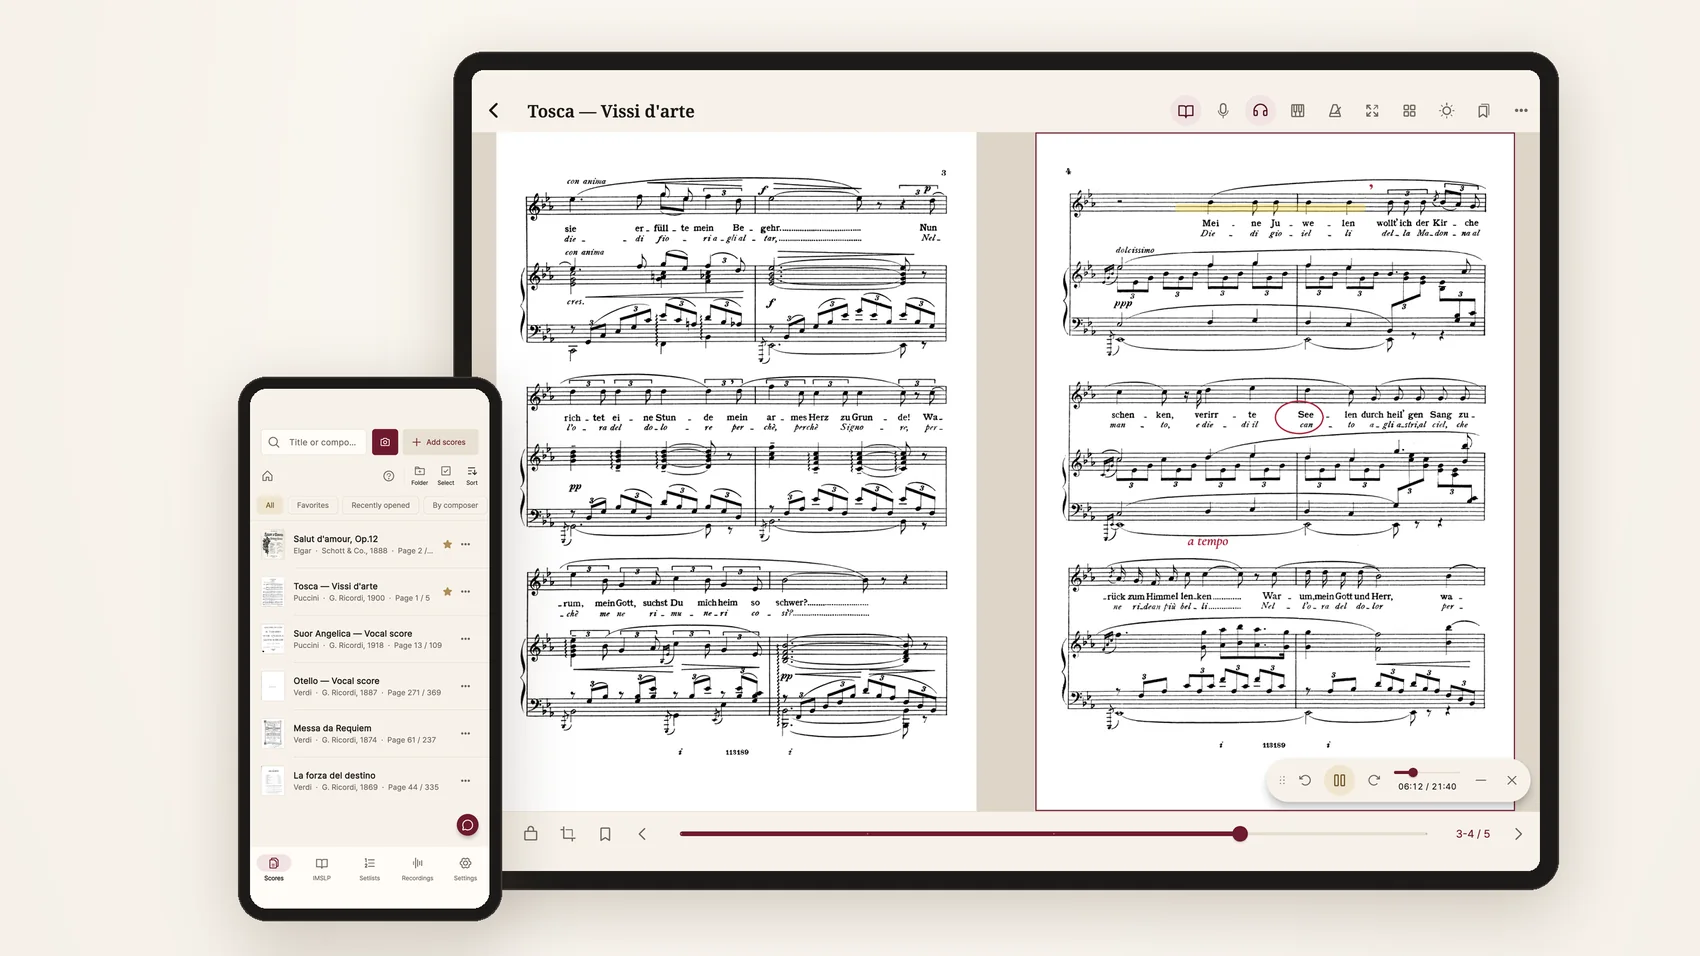
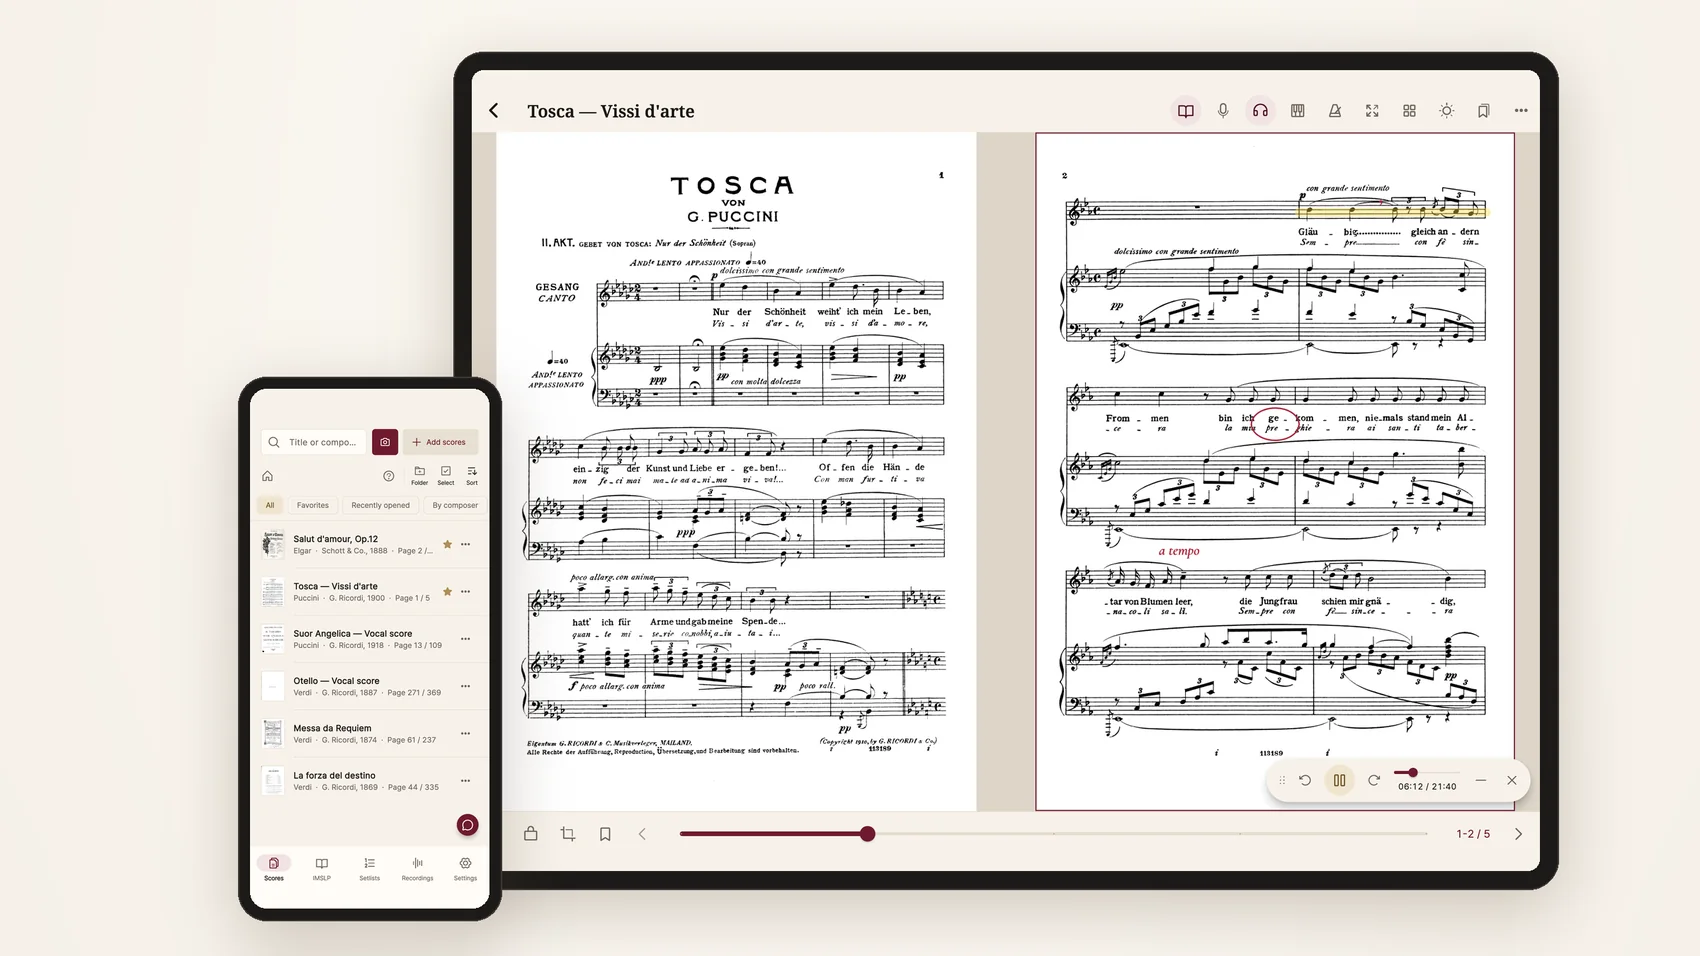
악보를 토스카 1-2쪽으로, 영상 자리 준비 (대표님)
악보: 아리아 첫 쪽으로 바꿨다. 왼쪽 위 「TOSCA / G. PUCCINI」 머리글이
보여 음악을 모르는 사람도 오페라 악보임을 안다. 표지가 아니라 첫 쪽이라
바로 아래부터 성악 선율과 피아노 반주가 함께 보인다.

영상: "녹음하면 악보가 따라 넘어갑니다" 자리에만 짧은 영상을 넣을 수 있게
해 두었다. leggii/shots/follow.mp4 가 있으면 영상으로, 없으면 지금처럼
그림으로 나온다. 소리 없이 저절로 반복하되 화면에 들어올 때만 받아
재생한다(첫 화면이 느려지지 않게). 멈춤 그림은 지금 쓰는 토스카 화면이라
재생이 막힌 곳에서도 똑같이 보인다. 언어를 바꾸면 멈춤 그림도 따라간다.

아직 영상 파일은 없다 — 렛지 세션의 프레임을 기다린다.

Changed region(s): [[0.2806, 0.182, 0.5612, 0.7887], [0.6235, 0.182, 0.8729, 0.7887], [0.4988, 0.8494, 0.7482, 0.8797]]

diff --git a/leggii/index.html b/leggii/index.html
@@ -124,11 +124,20 @@ document.querySelectorAll("[data-l]").forEach(function(e){e.classList.toggle("on
 document.querySelectorAll("[data-set]").forEach(function(b){b.classList.toggle("on",b.getAttribute("data-set")===x)});
 document.querySelectorAll("[data-shot]").forEach(function(e){e.src="/leggii/shots/"+x+"/"+e.getAttribute("data-shot")+".webp"});
 document.querySelectorAll("[data-hero]").forEach(function(e){e.src="/leggii/shots/"+x+"/hero.webp"});
+document.querySelectorAll("[data-poster]").forEach(function(e){e.poster="/leggii/shots/"+x+"/"+e.getAttribute("data-poster")+".webp"});
 if(META[x]){document.title=META[x][0];
 var m=document.querySelector('meta[name="description"]');if(m)m.setAttribute("content",META[x][1]);
 var ot=document.querySelector('meta[property="og:title"]');if(ot)ot.setAttribute("content",META[x][0]);
 var od=document.querySelector('meta[property="og:description"]');if(od)od.setAttribute("content",META[x][1]);}
 try{localStorage.setItem(k,x)}catch(e){}}
 document.querySelectorAll("[data-set]").forEach(function(b){b.addEventListener("click",function(){set(b.getAttribute("data-set"))})});
-set(l)})();</script>
+set(l);
+/* 영상은 화면에 들어왔을 때만 받아서 재생한다 — 첫 화면이 느려지지 않게 */
+var vs=document.querySelectorAll("video.shot");
+if(vs.length&&"IntersectionObserver" in window){
+var io=new IntersectionObserver(function(es){es.forEach(function(en){var v=en.target;
+if(en.isIntersecting){if(v.preload!=="auto"){v.preload="auto";v.load()}
+var pr=v.play();if(pr&&pr.catch)pr.catch(function(){})}else{v.pause()}})},{threshold:.25});
+vs.forEach(function(v){io.observe(v)})}
+})();</script>
 </body></html>

diff --git a/leggii_site.py b/leggii_site.py
@@ -14,6 +14,8 @@
 build.py 가 leggii_legal.py 를 통해 부른다.
 """
 
+import os
+
 SHOT_LANGS = ("ko", "en", "de")  # 스크린샷이 있는 언어
 LANGS = [("ko", "한국어"), ("en", "English"), ("de", "Deutsch")]
 
@@ -314,8 +316,20 @@ def _feat(l, i, num, kicker, head, body, bullets):
     flip = " flip" if i % 2 else ""
     return (f'<div data-l="{l}" class="feat{flip}{_on(l)}">'
             f'<div class="txt"><p class="kicker">{kicker}</p><h2>{head}</h2><p>{body}</p><ul>{lis}</ul></div>'
-            f'<div><img class="shot" data-shot="d{num}" src="/leggii/shots/en/d{num}.webp" '
-            f'alt="{head}" width="1200" height="936" loading="lazy" decoding="async"></div></div>')
+            f'<div>{_media(num, head)}</div></div>')
+
+
+FOLLOW = "leggii/shots/follow.mp4"   # 악보가 따라 넘어가는 짧은 영상(장면 3)
+
+
+def _media(num, head):
+    """장면 3은 영상이 있으면 영상, 없으면 그림."""
+    if num == 3 and os.path.exists(os.path.join(os.path.dirname(os.path.abspath(__file__)), FOLLOW)):
+        return (f'<video class="shot" data-poster="d{num}" poster="/leggii/shots/en/d{num}.webp" '
+                f'width="1200" height="936" muted loop playsinline preload="none" '
+                f'aria-label="{head}"><source src="/{FOLLOW}" type="video/mp4"></video>')
+    return (f'<img class="shot" data-shot="d{num}" src="/leggii/shots/en/d{num}.webp" '
+            f'alt="{head}" width="1200" height="936" loading="lazy" decoding="async">')
 
 
 def _plans(l, t):
@@ -339,13 +353,22 @@ document.querySelectorAll("[data-l]").forEach(function(e){e.classList.toggle("on
 document.querySelectorAll("[data-set]").forEach(function(b){b.classList.toggle("on",b.getAttribute("data-set")===x)});
 document.querySelectorAll("[data-shot]").forEach(function(e){e.src="/leggii/shots/"+x+"/"+e.getAttribute("data-shot")+".webp"});
 document.querySelectorAll("[data-hero]").forEach(function(e){e.src="/leggii/shots/"+x+"/hero.webp"});
+document.querySelectorAll("[data-poster]").forEach(function(e){e.poster="/leggii/shots/"+x+"/"+e.getAttribute("data-poster")+".webp"});
 if(META[x]){document.title=META[x][0];
 var m=document.querySelector('meta[name="description"]');if(m)m.setAttribute("content",META[x][1]);
 var ot=document.querySelector('meta[property="og:title"]');if(ot)ot.setAttribute("content",META[x][0]);
 var od=document.querySelector('meta[property="og:description"]');if(od)od.setAttribute("content",META[x][1]);}
 try{localStorage.setItem(k,x)}catch(e){}}
 document.querySelectorAll("[data-set]").forEach(function(b){b.addEventListener("click",function(){set(b.getAttribute("data-set"))})});
-set(l)})();"""
+set(l);
+/* 영상은 화면에 들어왔을 때만 받아서 재생한다 — 첫 화면이 느려지지 않게 */
+var vs=document.querySelectorAll("video.shot");
+if(vs.length&&"IntersectionObserver" in window){
+var io=new IntersectionObserver(function(es){es.forEach(function(en){var v=en.target;
+if(en.isIntersecting){if(v.preload!=="auto"){v.preload="auto";v.load()}
+var pr=v.play();if(pr&&pr.catch)pr.catch(function(){})}else{v.pause()}})},{threshold:.25});
+vs.forEach(function(v){io.observe(v)})}
+})();"""
 
 
 def _meta_json():

diff --git a/leggii_hero.py b/leggii_hero.py
@@ -24,7 +24,9 @@ GOLD = "/Users/jameslee/App/leggii/test_screenshots/goldens"
 # 첫 그림과 '녹음' 설명에 쓸 악보 화면. 렛지 세션이 goldens/hero/<이름>-<언어>.png 로
 # 후보를 뽑아 둔다(2026-11-17, 대표님: 성악가니까 성악 악보로, 토스카 「Vissi d'arte」).
 # 없으면 예전 장면(ipad/<언어>-3.png)으로 돌아간다.
-HERO_SCORE = os.environ.get("HERO_SCORE", "tosca34")
+# tosca12 = 아리아 첫 쪽. 왼쪽 위 「TOSCA / G. PUCCINI」 머리글이 보여
+# 음악을 모르는 사람도 오페라 악보임을 안다(대표님 2026-11-17).
+HERO_SCORE = os.environ.get("HERO_SCORE", "tosca12")
 
 
 def score_shot(lang):
